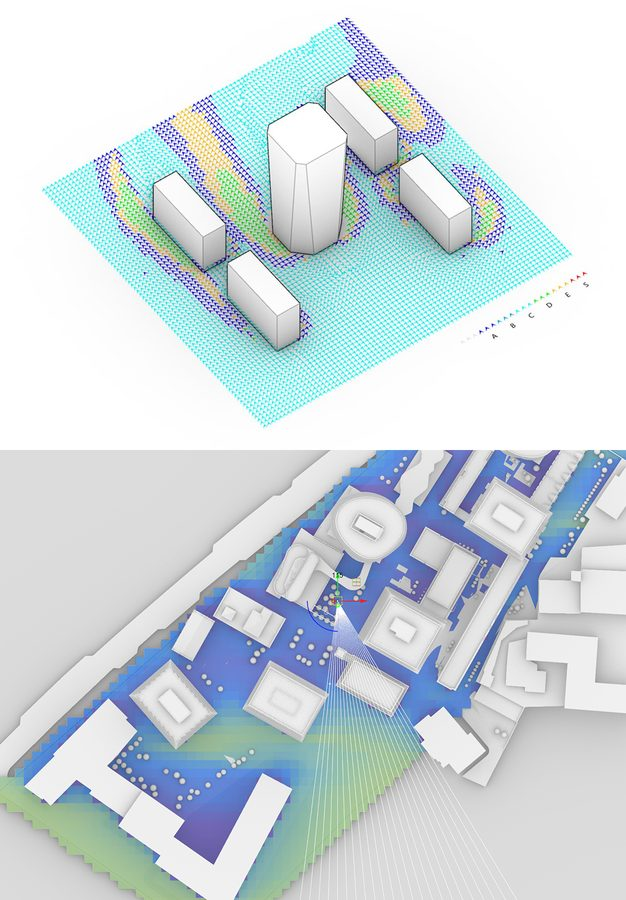
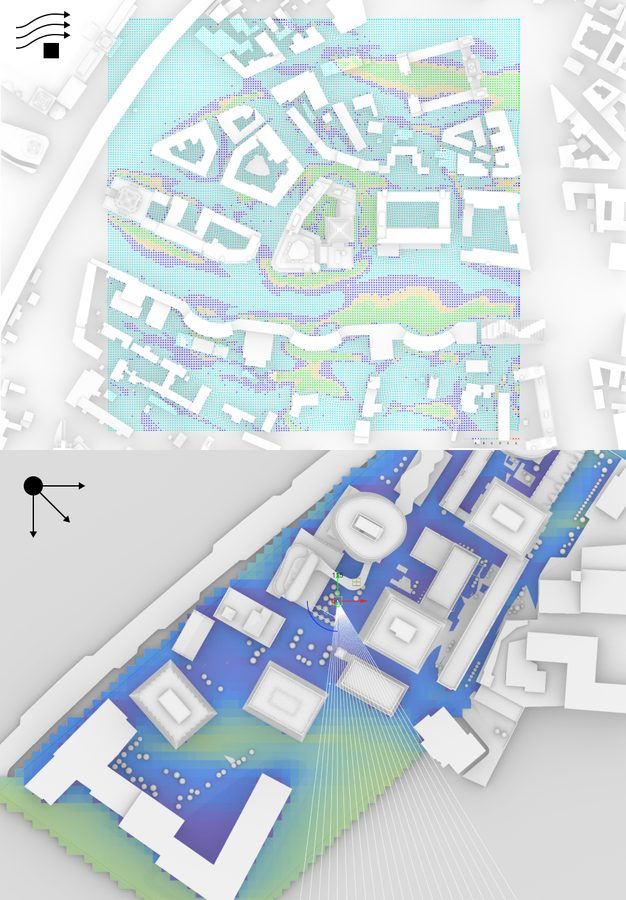
Real bidirectional swipe, centered CTA label, refreshed 2 example photos
- swipe() always advanced forward regardless of drag direction (only the
  fly-off animation differed) — split into goNext()/goPrev(), swiping left
  now actually goes forward and right actually goes back, matching the
  visual fly-off direction; wired into drag, arrow buttons and keyboard
- CTA label centered independent of the arrow icon (arrow taken out of
  flex flow via position:absolute) — text sits at the button's true
  center regardless of the arrow, gap between them tightened to ~12px
- CTA + hint swapped order: button now right after the dots (24px gap,
  matching the subtitle-to-card gap), hint caption moved below it
- Replaced revit-back.jpg and physics-back.jpg with updated source photos

diff --git a/docs/index.html b/docs/index.html
@@ -24,10 +24,12 @@ body{
   background:var(--tg-theme-bg-color,var(--page));
   color:var(--tg-theme-text-color,var(--ink));
   display:flex;flex-direction:column;
-  /* Ритм отступов на базовой единице X=12px: 2X сверху и перед CTA,
-     1X между карточкой и точками, 0.5X между заголовком и подзаголовком
-     (см. header/.dots-row/.cta ниже). */
-  padding:max(24px,env(safe-area-inset-top)) 0 calc(56px + 24px + max(16px,env(safe-area-inset-bottom)));
+  /* Ритм отступов на базовой единице X=12px: 2X сверху, перед карточкой и
+     перед CTA; 1X между карточкой и точками, 0.5X между заголовком и
+     подзаголовком (см. header/.dots-row/.cta ниже). CTA и подпись теперь в
+     обычном потоке внутри .deck-col — не фиксированы, резервировать под них
+     нижний паддинг больше не нужно. */
+  padding:max(24px,env(safe-area-inset-top)) 0 max(20px,env(safe-area-inset-bottom));
   user-select:none;-webkit-user-select:none;touch-action:none;
 }
 
@@ -109,22 +111,26 @@ header .brand{
 .back-photo{width:100%;height:100%;object-fit:cover;border-radius:10px;display:block;pointer-events:none}
 
 .dots-row{display:flex;justify-content:center;gap:5px;padding:22px 0 0}
-.swipe-hint{text-align:center;font-size:.72rem;color:var(--sub);line-height:1.4;padding:0 32px;margin-top:14px}
 .dots{display:flex;gap:5px}
 .dots i{width:5px;height:5px;border-radius:50%;background:var(--line);transition:background .2s,width .2s}
 .dots i.on{background:var(--accent);width:14px;border-radius:999px}
 
+/* margin-top:24px — тот же 2X, что и над карточкой (см. .deck-col выше):
+   разрыв «точки → CTA» теперь визуально равен разрыву «подзаголовок → карточка». */
 .cta{
-  position:fixed;left:50%;bottom:max(16px,env(safe-area-inset-bottom));
-  transform:translateX(-50%);
-  width:min(88vw,400px);height:56px;border-radius:16px;z-index:40;
+  position:relative;
+  width:min(88vw,400px);height:56px;margin-top:24px;border-radius:16px;
   background:var(--accent);color:var(--card);
   font-family:inherit;font-size:.92rem;font-weight:600;border:none;cursor:pointer;
-  display:flex;align-items:center;justify-content:center;gap:10px;
+  display:flex;align-items:center;justify-content:center;
   box-shadow:0 14px 30px -12px rgba(0,0,0,.4);
 }
-.cta:active{transform:translateX(-50%) scale(.98)}
+.cta:active{transform:scale(.98)}
+.swipe-hint{text-align:center;font-size:.72rem;color:var(--sub);line-height:1.4;padding:0 32px;margin-top:12px}
+/* Стрелка вынесена из потока (position:absolute), чтобы не сдвигать текст
+   от истинного центра кнопки — только текст участвует в justify-content:center. */
 .cta-arrow{
+  position:absolute;top:50%;right:100px;transform:translateY(-50%);
   display:flex;align-items:center;justify-content:center;
   width:32px;height:32px;color:#9a9a9e;
 }
@@ -161,20 +167,20 @@ header .brand{
   <div class="deck-col">
     <div class="deck" id="deck"></div>
     <div class="dots-row dots" id="dots"></div>
+
+    <button class="cta" id="cta">
+      <span class="cta-label">Это моя задача</span>
+      <span class="cta-arrow" aria-hidden="true">
+        <svg width="18" height="18" viewBox="0 0 24 24" fill="none">
+          <path d="M5 12h13.5M13 6l6.5 6-6.5 6" stroke="currentColor" stroke-width="2.4" stroke-linecap="round" stroke-linejoin="round"/>
+        </svg>
+      </span>
+    </button>
+
+    <p class="swipe-hint">Свайпайте карточки, нажимайте на них — увидите примеры</p>
   </div>
   <button class="arrow right" aria-label="Следующая">→</button>
 </div>
-
-<p class="swipe-hint">Свайпайте карточки, нажимайте на них — увидите примеры</p>
-
-<button class="cta" id="cta">
-  <span>Это моя задача</span>
-  <span class="cta-arrow" aria-hidden="true">
-    <svg width="18" height="18" viewBox="0 0 24 24" fill="none">
-      <path d="M5 12h13.5M13 6l6.5 6-6.5 6" stroke="currentColor" stroke-width="2.4" stroke-linecap="round" stroke-linejoin="round"/>
-    </svg>
-  </span>
-</button>
 
 <script>
 const CASES = [
@@ -281,21 +287,28 @@ function fill(){
 
 let animating = false; // guard: быстрый второй свайп не трогает ту же карточку
 
-function swipe(dir){
+// Свайп/смахивание влево -> вперёд по колоде, вправо -> назад. flyDir всегда
+// совпадает с направлением ухода карточки с экрана (визуально), а не с тем,
+// вперёд мы идём или назад, — те же -1/+1, что и раньше, просто теперь оба
+// направления реально ведут в разные стороны по CASES, а не всегда вперёд.
+function goNext(flyDir = -1){
   const top = deck.lastElementChild;
   if (!top || animating) return;
   animating = true;
   top.classList.add("gone");
-  top.style.transform = `translateX(${dir * 130}%) rotate(${dir * 14}deg)`;
+  top.style.transform = `translateX(${flyDir * 130}%) rotate(${flyDir * 14}deg)`;
   current = (current + 1) % CASES.length;
   setTimeout(() => { top.remove(); fill(); animating = false; }, 460);
 }
 
-function prev(){
-  if (animating) return;
+function goPrev(flyDir = 1){
+  const top = deck.lastElementChild;
+  if (!top || animating) return;
+  animating = true;
+  top.classList.add("gone");
+  top.style.transform = `translateX(${flyDir * 130}%) rotate(${flyDir * 14}deg)`;
   current = (current - 1 + CASES.length) % CASES.length;
-  deck.replaceChildren();
-  fill();
+  setTimeout(() => { top.remove(); deck.replaceChildren(); fill(); animating = false; }, 460);
 }
 
 // Драг: одни слушатели на window + активная карточка в переменной,
@@ -333,7 +346,7 @@ function onUp(e){
   el.classList.remove("dragging");
   if (e && e.type === "pointercancel") { layout(); return; } // прервано системой — не считаем тапом
   if (Math.abs(drag.dx) > 90) {
-    swipe(Math.sign(drag.dx));
+    if (drag.dx < 0) goNext(); else goPrev();
   } else {
     layout();
     // Тап без движения = переворот карточки (детали на обратной стороне).
@@ -373,12 +386,12 @@ window.addEventListener("pointermove", onMove);
 window.addEventListener("pointerup", onUp);
 window.addEventListener("pointercancel", onUp);
 
-document.querySelector(".arrow.right").addEventListener("click", () => swipe(1));
-document.querySelector(".arrow.left").addEventListener("click", prev);
+document.querySelector(".arrow.right").addEventListener("click", () => goNext());
+document.querySelector(".arrow.left").addEventListener("click", () => goPrev());
 document.getElementById("cta").addEventListener("click", chooseCurrent);
 window.addEventListener("keydown", e => {
-  if (e.key === "ArrowRight") swipe(1);
-  if (e.key === "ArrowLeft") prev();
+  if (e.key === "ArrowRight") goNext();
+  if (e.key === "ArrowLeft") goPrev();
   if (e.key === "Enter") chooseCurrent();
 });
 